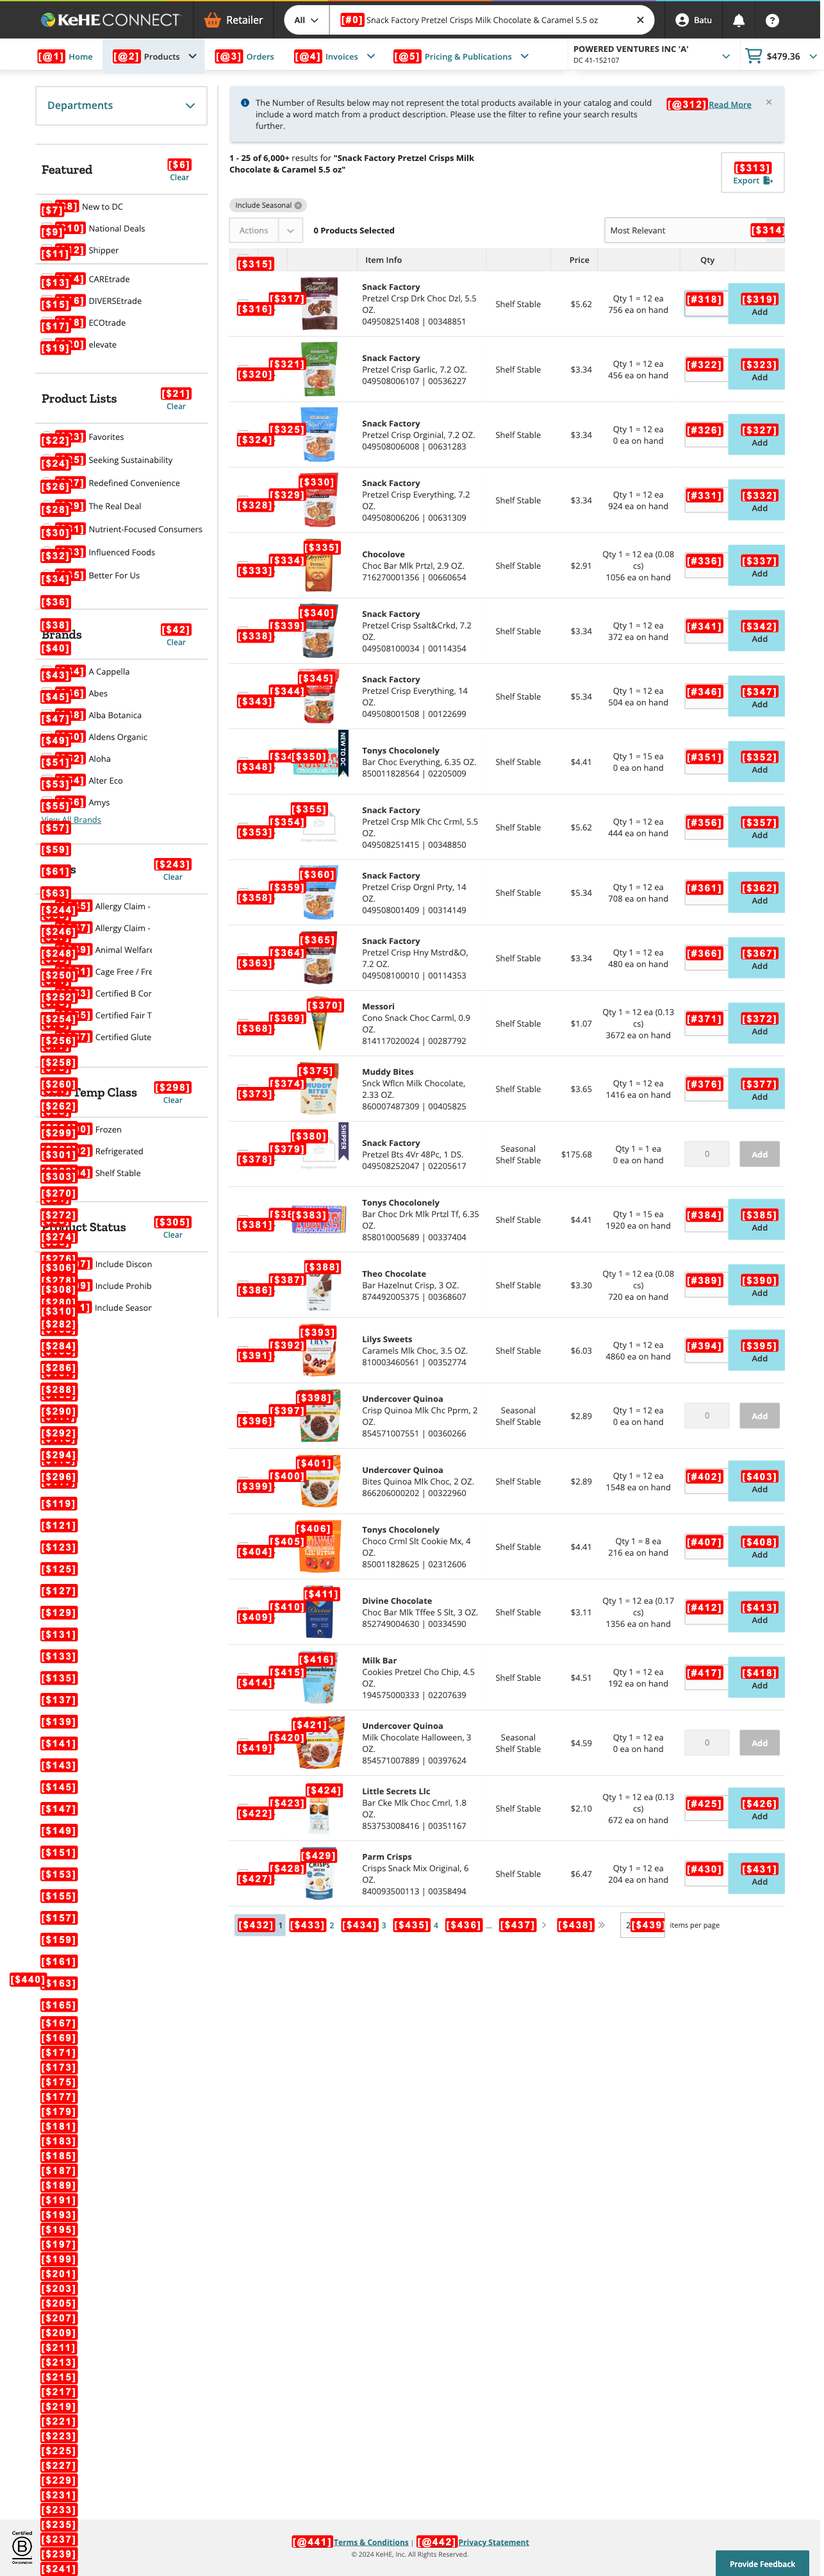
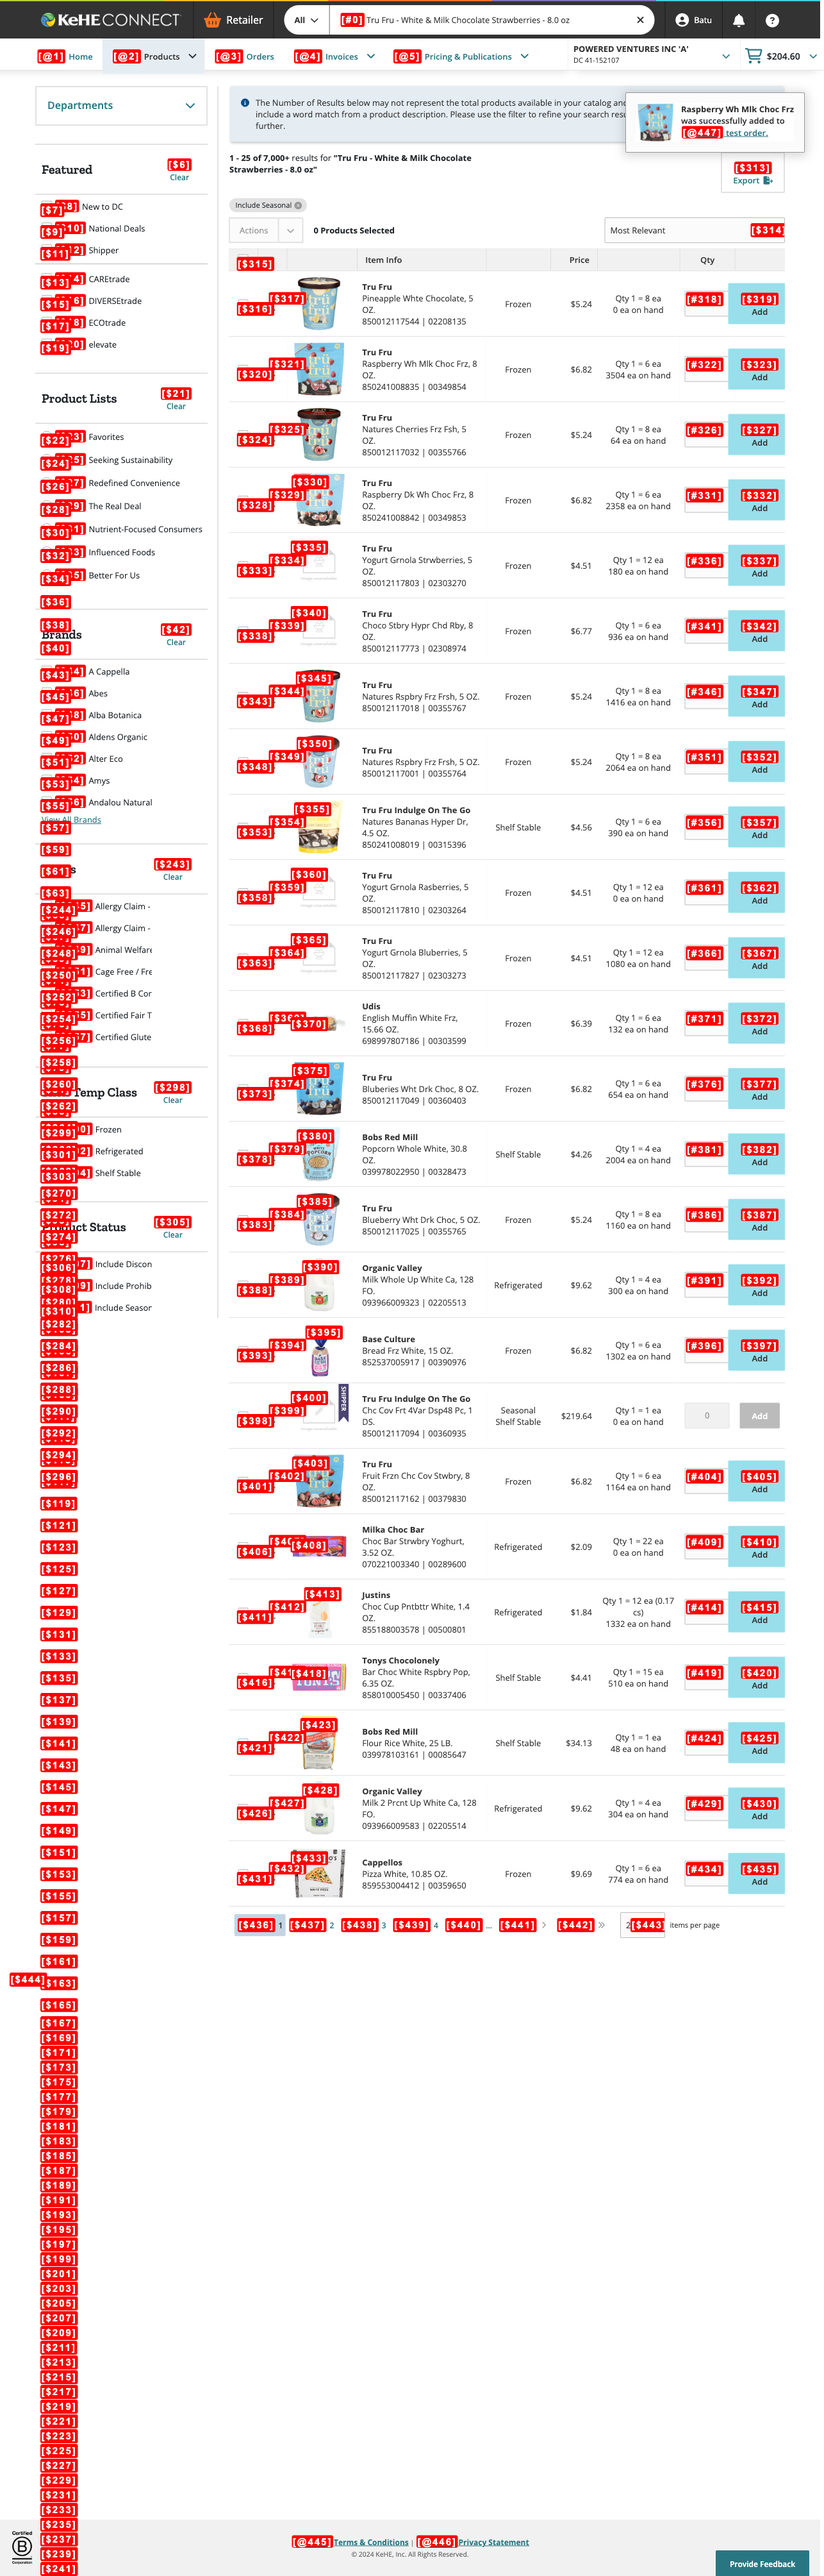
prompt changes for search bar inf rito lay

diff --git a/kehe_bot.py b/kehe_bot.py
@@ -39,51 +39,53 @@ async def main():
                 # item_name = "Cheetos Crunchy - Cheddar Jalapeno - 3.25 oz"
 
                 joshyTrain = JoshyTrain(page)
-                search_instruction = """
-            when you are searching for an item, try different search terms, for example: 
-            if the full name is Cheetos Crunchy - Cheddar Jalapeno - 3.25 oz, you can try the following
-            - Cheetos Crunchy Cheddar Jalapeno
-            - Cheetos Crunchy
-            - Cheddar Jalapeno
-            - Cheetos
-            - MAKE SURE TO ALSO TRY OTHER COMBINATION OF THE WORDS OR JUST THE BRAND NAME AS WELL
-            """
-                while True:
-                    try:
-                        response = await joshyTrain.chat(
-                            f"""{search_instruction}, DO: INPUT different search terms into the search bar for {item_name}, you have already tried {search_terms}.
+            #     search_instruction = """
+            # when you are searching for an item, try different search terms, for example: 
+            # if the full name is Cheetos Crunchy - Cheddar Jalapeno - 3.25 oz, you can try the following
+            # - Cheetos Crunchy Cheddar Jalapeno
+            # - Cheetos Crunchy
+            # - Cheddar Jalapeno
+            # - Cheetos
+            # - MAKE SURE TO ALSO TRY OTHER COMBINATION OF THE WORDS OR JUST THE BRAND NAME AS WELL
+            # """
+            #     while True:
+            #         try:
+            #             response = await joshyTrain.chat(
+            #                 f"""{search_instruction}, DO: INPUT different search terms into the search bar for {item_name}, you have already tried {search_terms}.
 
-                            Just try once and then return the following JSON format: 
-                            {{"searchTerm": "exact search term you put as the input", "itemsFound": "yes" or "no"}}
+            #                 Just try once and then return the following JSON format: 
+            #                 {{"searchTerm": "exact search term you put as the input", "itemsFound": "yes" or "no"}}
 
-                            the above is your ONLY OPTION AFTER ATTEMPTING TO INPUT INTO THE SEARCH BAR, never output {{"searchTerm": "exact search term you put as the input", "itemsFound": "yes" or "no"}} if you haven't outputted {{"input": {{"select": "ID", "text": "exact search term you put as the input"}}}}
+            #                 the above is your ONLY OPTION AFTER ATTEMPTING TO INPUT INTO THE SEARCH BAR, never output {{"searchTerm": "exact search term you put as the input", "itemsFound": "yes" or "no"}} if you haven't outputted {{"input": {{"select": "ID", "text": "exact search term you put as the input"}}}}
 
-                            if you don't follow the above, then the program will not work.
-                            """
-                        )
-                        data = joshyTrain.extract_json(response)
-                        if data and "searchTerm" in data:
-                            search_term = data["searchTerm"]
-                            search_terms.append(search_term)
-                            if str(data["itemsFound"]).lower() == "yes":
-                                break
-                    except Exception as e:
-                        print(e)
-                        continue
+            #                 if you don't follow the above, then the program will not work.
+            #                 """
+            #             )
+            #             data = joshyTrain.extract_json(response)
+            #             if data and "searchTerm" in data:
+            #                 search_term = data["searchTerm"]
+            #                 search_terms.append(search_term)
+            #                 if str(data["itemsFound"]).lower() == "yes":
+            #                     break
+            #         except Exception as e:
+            #             print(e)
+            #             continue
+                
+                await joshyTrain.chat(f"search {item_name} in the search bar")
                 response = await joshyTrain.chat(
-                    f'tell me the name of the item in JSON format that is most similar to {item_name}, {{"name": "exact name of the item"}}'
+                    f"""tell me the name of the item in JSON format that is most similar to {item_name}.
+                    Consider similarities in brand, product name, flavor, and size. 
+                    Respond in the following JSON format: 
+                    {{"name": "exact name of the item", "reason": "your reason for choosing this item"}}"""
                 )
                 data = joshyTrain.extract_json(response)
                 if data and "name" in data:
                     name = data["name"]
                 else:
                     name = item_name
-                await joshyTrain.chat(
-                    f"click the image for {name}  and don't do anything else"
-                )
                 number_of_packs = row["total_packs_ordered"]
                 await joshyTrain.chat(
-                    f"put {number_of_packs} for amount and click 'Add to Cart'. if it asks you for the order name, put 'test order' and click 'Add to Cart', otherwise do nothing."
+                    f"For {name}, put {number_of_packs} for amount and click 'Add'. if it asks you for the order name, put 'test order' and click 'Add to Cart', otherwise do nothing."
                 )
 
             cart_icon = await page.query_selector('img[src="www/images/cart.svg"]')

diff --git a/fritolay_bot.py b/fritolay_bot.py
@@ -25,6 +25,7 @@ if the full name is Cheetos Crunchy - Cheddar Jalapeno - 3.25 oz, you can try th
 - Cheetos
 - MAKE SURE TO ALSO TRY OTHER COMBINATION OF THE WORDS OR JUST THE BRAND NAME AS WELL
 DON'T include the size when you are searching, the ID for the search bar is usually close to 15 defintely NOT 215
+the search bar is near the top of the page, do not mistaken it for some input field in the item cards.
 """
     while True:
         try:
